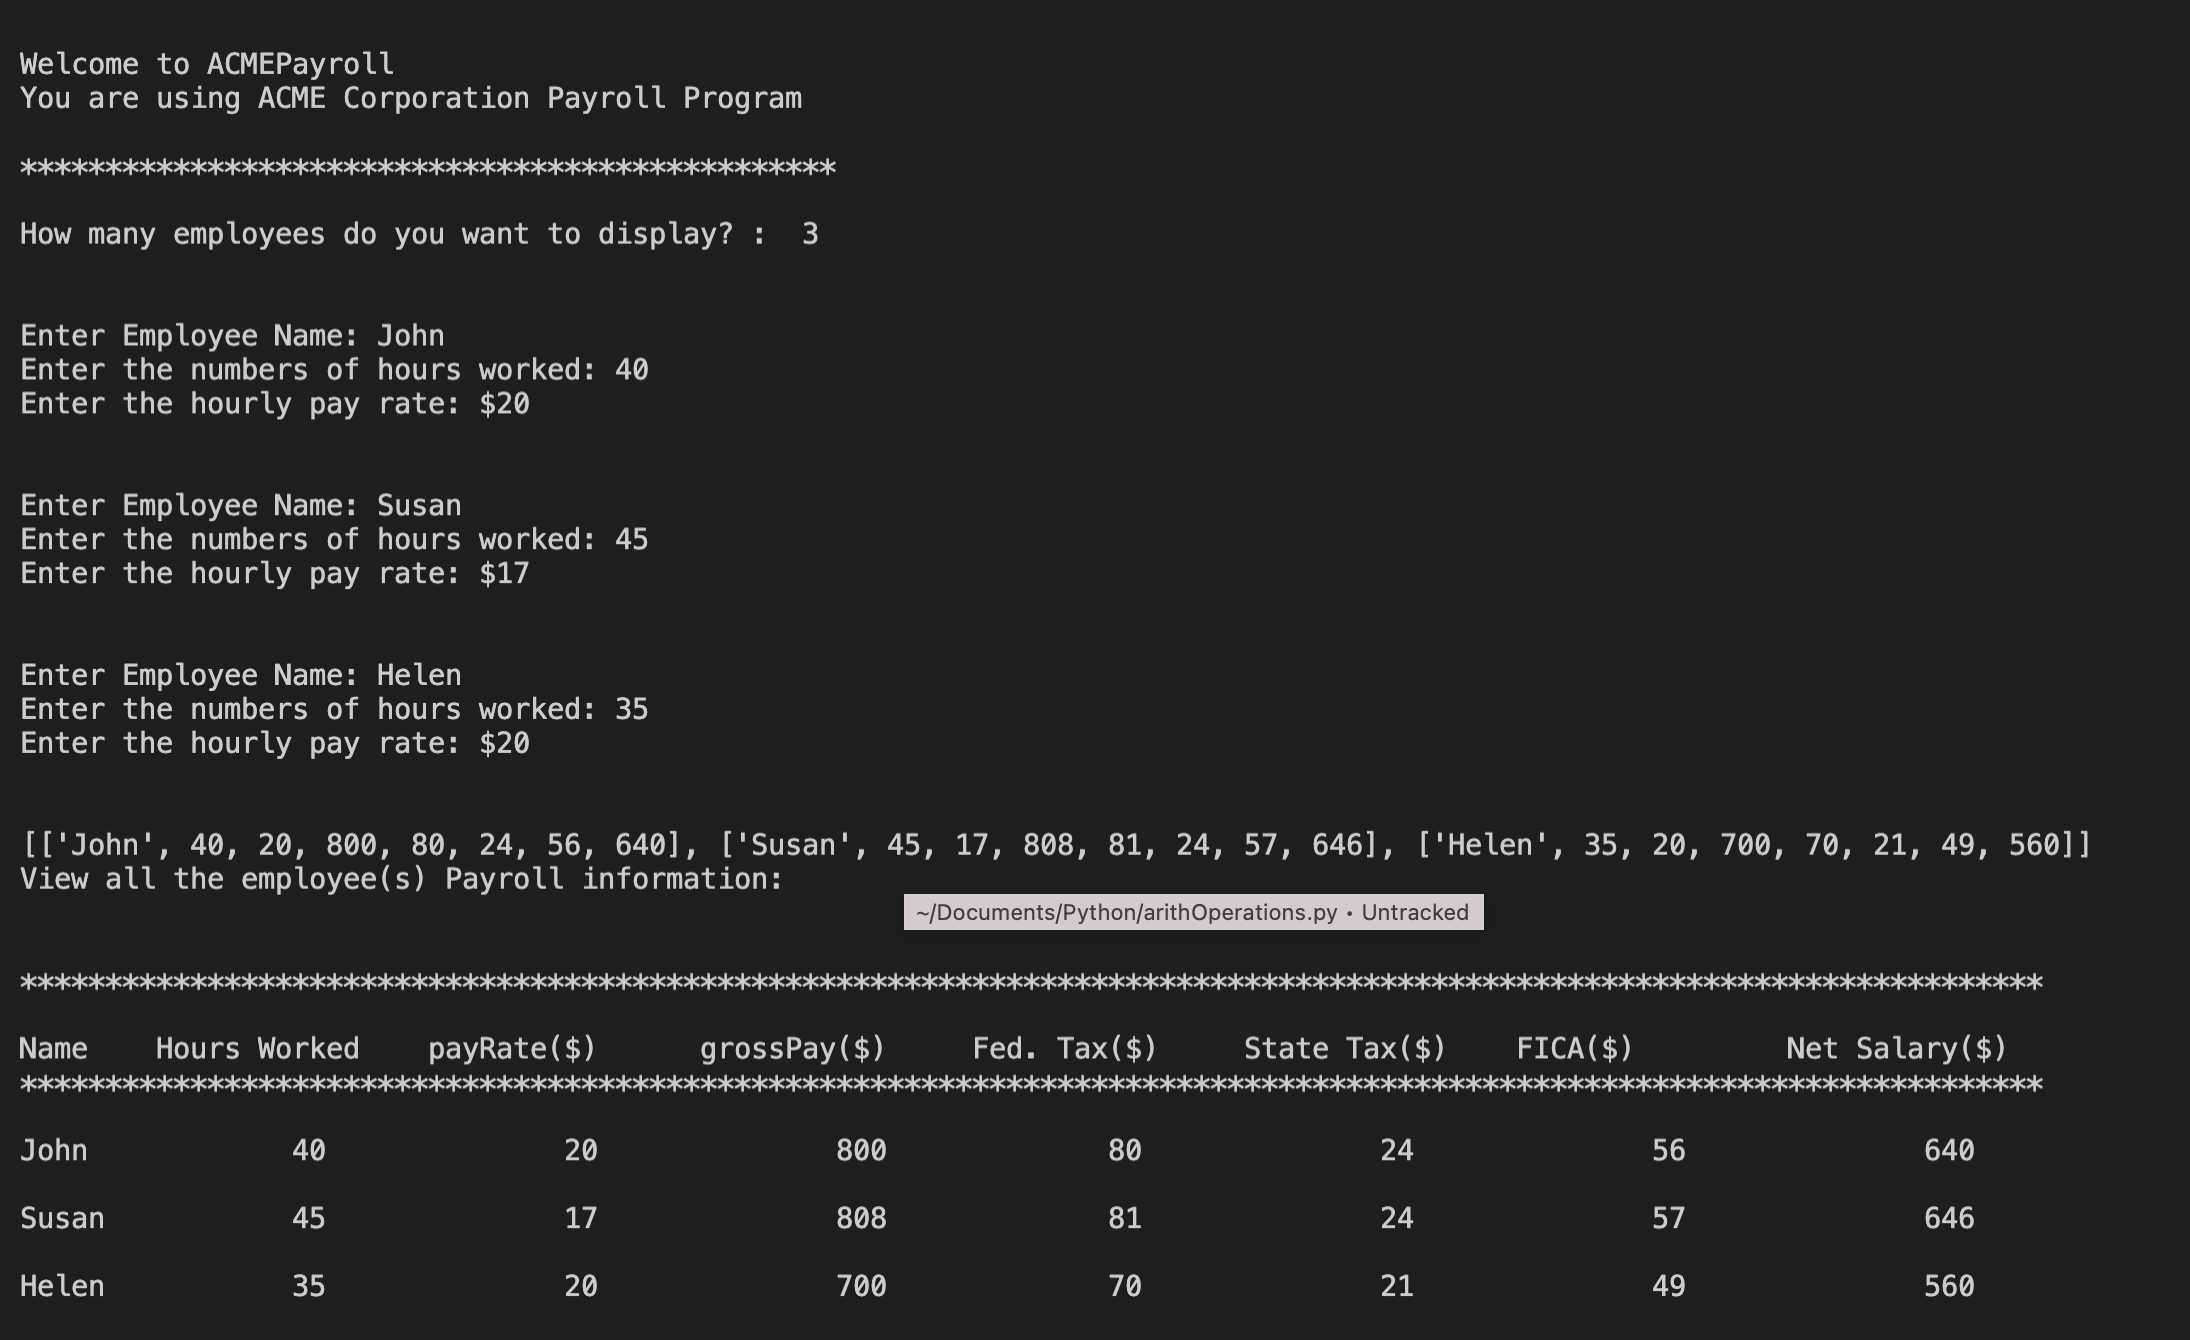
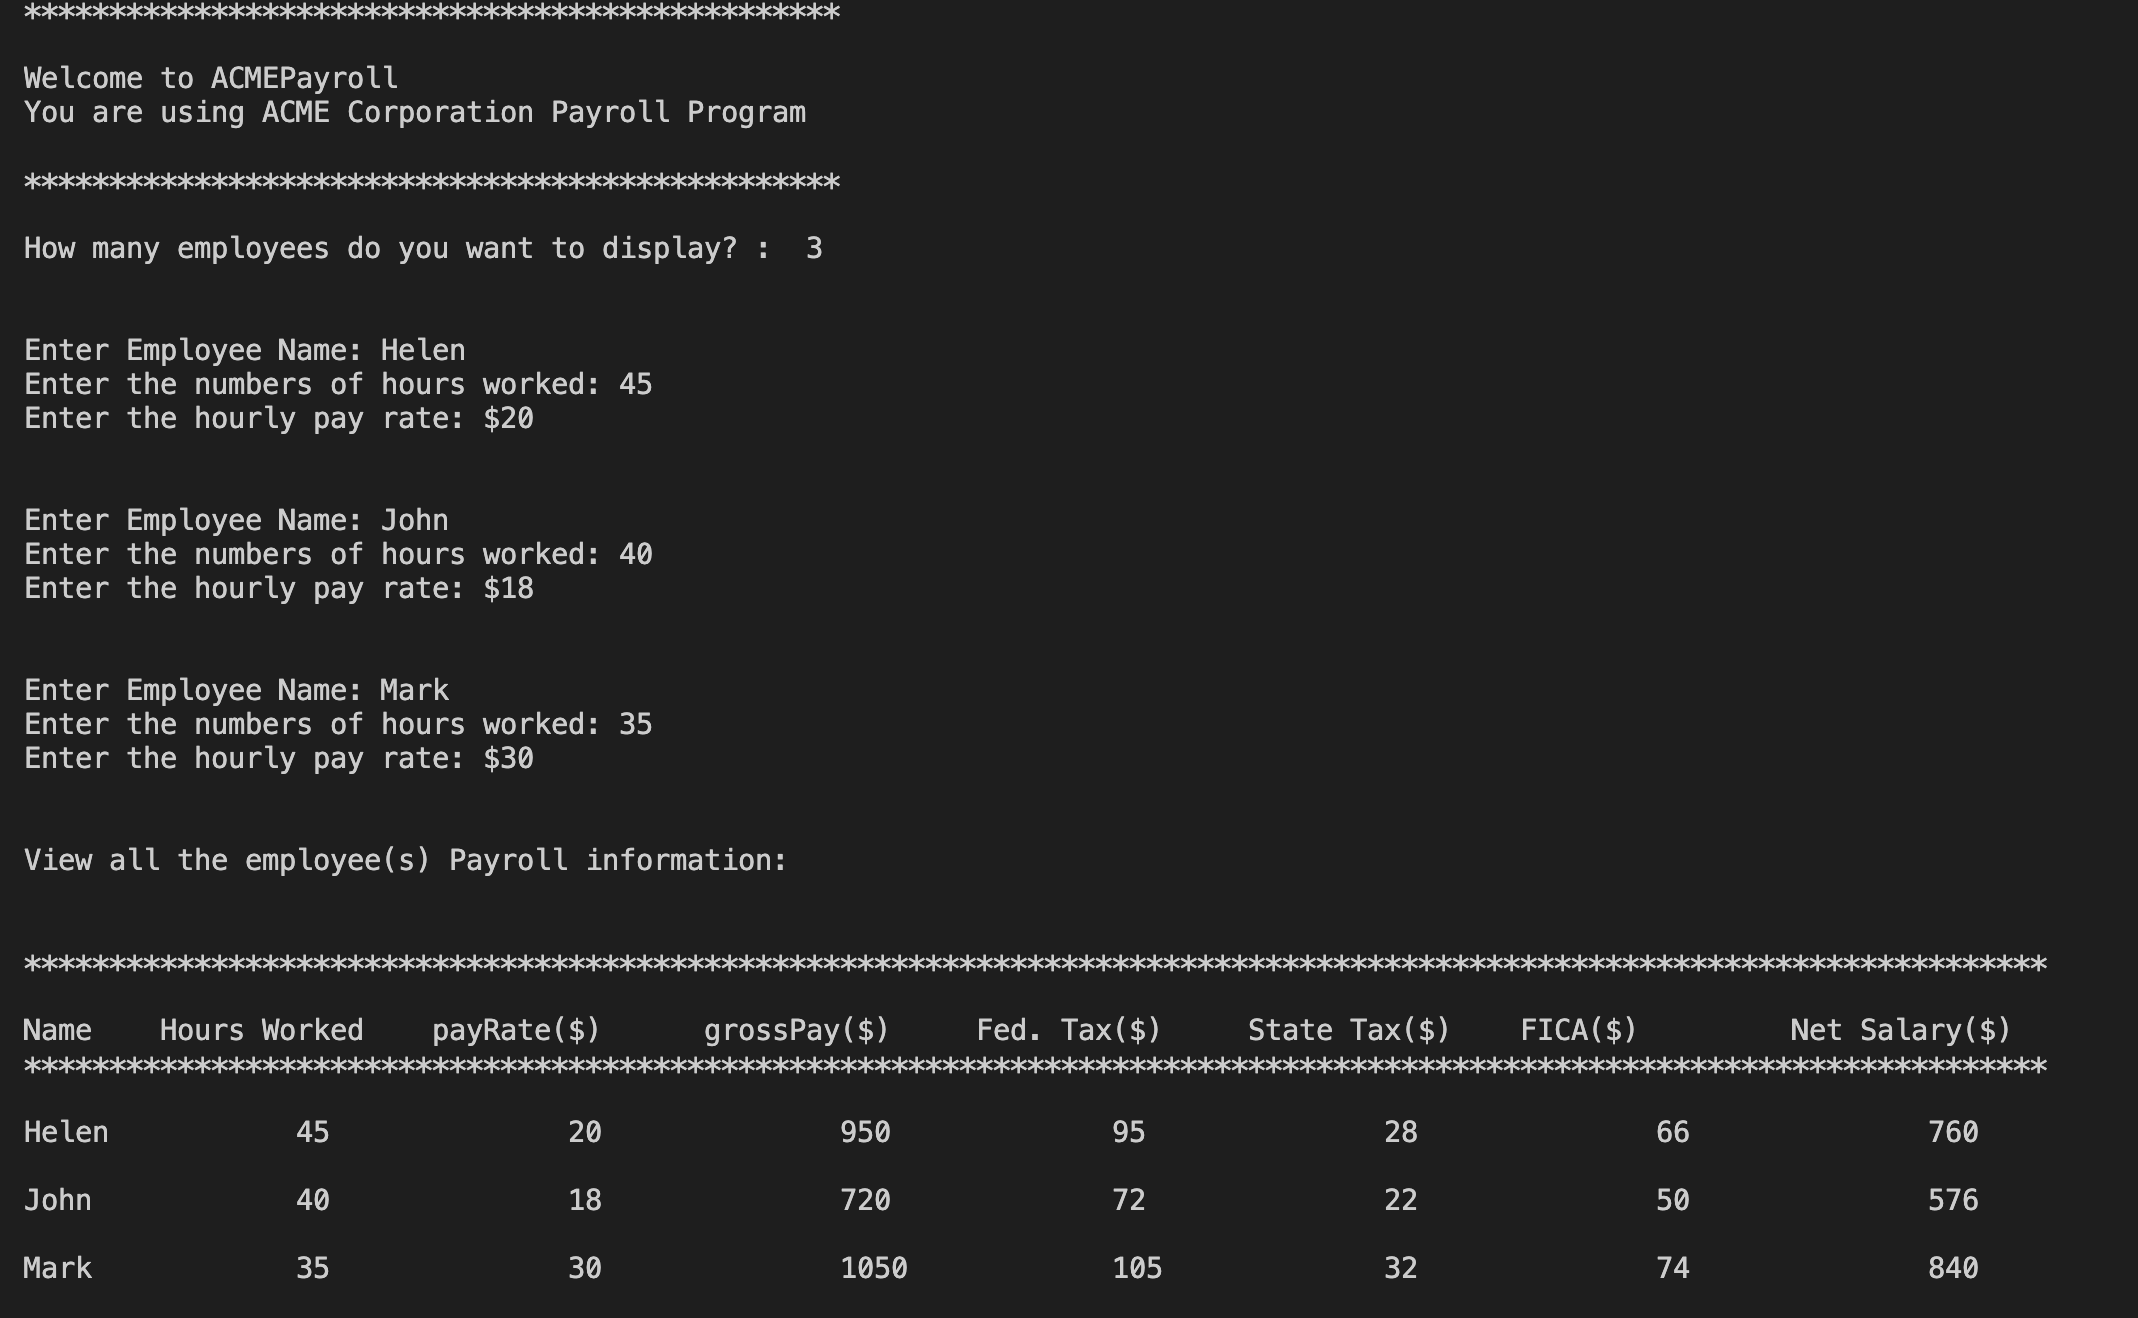
commented a print line

diff --git a/empPayRoll.py b/empPayRoll.py
@@ -113,7 +113,7 @@ for j in range(empNum):
     print("\n")
 
 #output information
-print(allEmpList)
+#print(allEmpList)
 print('View all the employee(s) Payroll information:')
 print("\n")
 print('***********************************************************************************************************************\n')
